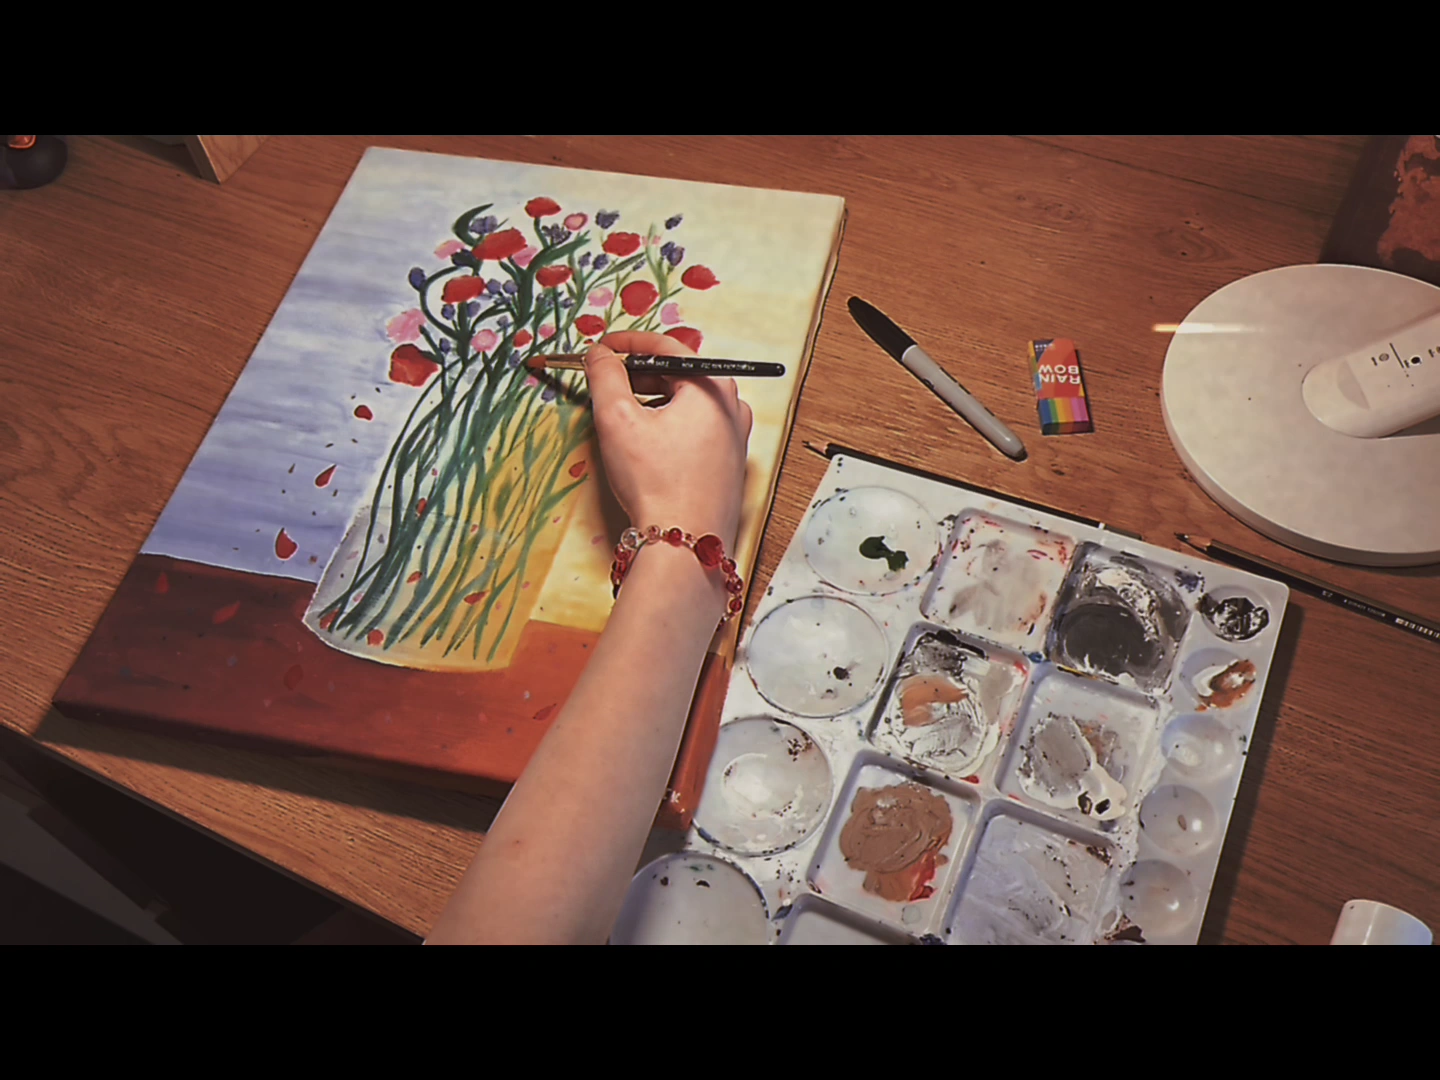
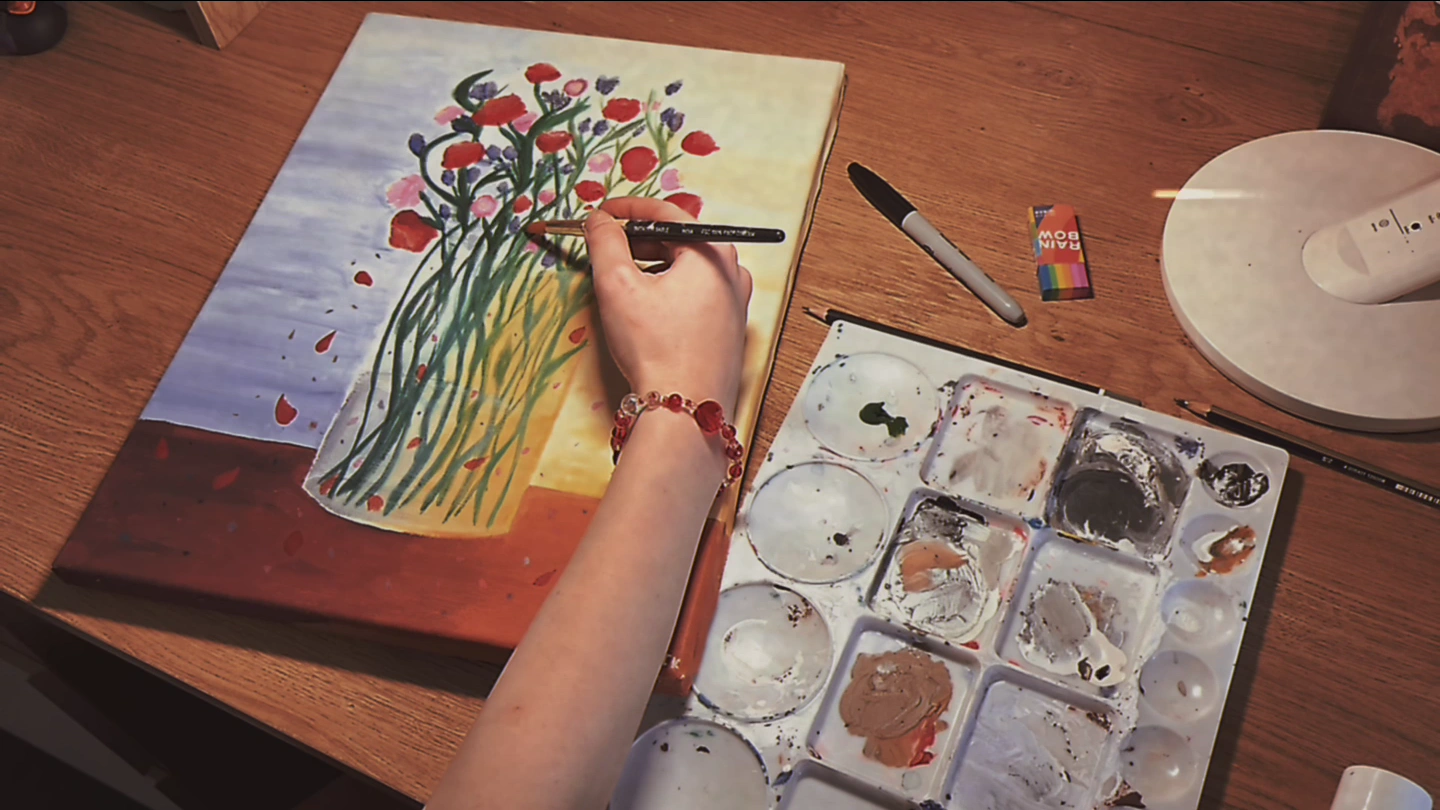
Videos fill their frame: the black bars baked into the exports stay outside the frame (portrait clips get a taller frame), and each backup still is a frame from its own clip; Follow us line ends with a full stop, T-Shirt in Title Case

diff --git a/js/data.js b/js/data.js
@@ -43,7 +43,7 @@ const CREDITS_ROLL = [
   ['Web Design & Development', 'Qinxi Yao']
 ];
 // The Follow Us folder on the same screen opens this note: [name, Instagram handle without the @]
-const SOCIALS_LEAD = 'Follow us for behind the scenes ✦';
+const SOCIALS_LEAD = 'Follow us for behind the scenes. ✦';
 const SOCIALS = [
   ['Chloee Park', 'larchivedeclo'],
   ['Isabella Kiosses', 'isafish_films'],
@@ -102,7 +102,7 @@ const ITEM_DEFS = {
   homework2:    { name: 'Mock Exam', fits: ['desk'], hint: 'Homework goes on the desk.', keep: false },
   hoodie:       { name: 'Hoodie', fits: ['basket'], hint: 'Clothes go in the laundry basket.', keep: false },
   jeans:        { name: 'Jeans', fits: ['basket'], hint: 'Clothes go in the laundry basket.', keep: false },
-  tee:          { name: 'T-shirt', fits: ['basket'], hint: 'Clothes go in the laundry basket.', keep: false },
+  tee:          { name: 'T-Shirt', fits: ['basket'], hint: 'Clothes go in the laundry basket.', keep: false },
   heels:        { name: "Mum's Heels", fits: ['floor'], hint: 'Shoes go on the floor.' },
   sneakers:     { name: 'Old Sneakers', fits: ['underbed'], hint: 'Kick them under the bed. Out of sight, out of mind.', keep: false },
   posterband:   { name: 'Posters', fits: ['wall'], hint: 'Posters go on the wall above the bed.' },
@@ -163,7 +163,9 @@ const YA_SURFACES = [
   SILL
 ];
 
-/* ---------- the six chapters ---------- */
+/* ---------- the six chapters ----------
+   Videos: ratio = the shape of the picture inside the clip. Our exports have black bars baked in
+   (16:9 or 9:16 picture in a 4:3 file), so the player shows just the picture, at full quality. */
 const CHAPTERS = [
   {
     id: 'nursery', kicker: 'Chapter 1', title: 'The Nursery', year: 2000, accent: '#ffc700',
@@ -182,8 +184,8 @@ const CHAPTERS = [
     tray: ['teddy', 'blanket', 'mobile', 'rabbit', 'rabbitbooks', 'snowglobe', 'nightlight', 'rattle', 'bottle'],
     mess: [],
     memories: [
-      { id: 'n-teddy', items: ['teddy'], type: 'video', src: 'assets/video/01-nursery-teddy.mp4', still: 'assets/photos/01-nursery-teddy.webp', focus: [0.5, 0.45], caption: 'Teddy resting in bed.' },
-      { id: 'n-globe', items: ['snowglobe'], type: 'video', src: 'assets/video/01-nursery-snowglobe.mp4', still: 'assets/photos/01-nursery-snowglobe.jpg', focus: [0.2, 0.76], caption: '♪ ♫ ♪\u00a0\u00a0Watching the glitter fall.\u00a0\u00a0♪ ♫ ♪' },
+      { id: 'n-teddy', items: ['teddy'], type: 'video', src: 'assets/video/01-nursery-teddy.mp4', ratio: 608 / 1080, still: 'assets/photos/01-nursery-teddy.webp', focus: [0.5, 0.4], caption: 'Teddy resting in bed.' },
+      { id: 'n-globe', items: ['snowglobe'], type: 'video', src: 'assets/video/01-nursery-snowglobe.mp4', ratio: 16 / 9, still: 'assets/photos/01-nursery-snowglobe.webp', focus: [0.62, 0.5], caption: '♪ ♫ ♪\u00a0\u00a0Watching the glitter fall.\u00a0\u00a0♪ ♫ ♪' },
       { id: 'n-rabbit', items: ['rabbit', 'rabbitbooks'], type: 'photo', src: 'assets/photos/01-nursery-peter-rabbit.webp', caption: 'Peter Rabbit, chilling on a shelf.' }
     ],
     onStart: [{ do: 'wait', ms: 1600 }, { do: 'toast', from: 'Mum', text: 'Sweet dreams, little one. ♥' }],
@@ -218,7 +220,7 @@ const CHAPTERS = [
       { id: 'truck', x: 880, y: 528, rot: -0.15 }
     ],
     memories: [
-      { id: 'c-tea', items: ['teaset'], type: 'video', src: 'assets/video/02-childhood-tea-party.mp4', still: 'assets/photos/02-childhood-tea-party.webp', focus: [0.5, 0.5], caption: 'Tea party with the dolls and the teddy.' },
+      { id: 'c-tea', items: ['teaset'], type: 'video', src: 'assets/video/02-childhood-tea-party.mp4', ratio: 16 / 9, still: 'assets/photos/02-childhood-tea-party.webp', focus: [0.5, 0.5], caption: 'Tea party with the dolls and the teddy.' },
       { id: 'c-doll', items: ['doll'], type: 'photo', src: 'assets/photos/02-childhood-dolls.webp', caption: 'Yay! Everyone’s here!' },
       { id: 'c-draw', items: ['drawing'], type: 'text', title: 'my_family.txt', caption: 'MY FAMILY, by me (age 5)\n\nMum. Dad. Me. My little brother.\nAnd teddy.' }
     ],
@@ -249,7 +251,7 @@ const CHAPTERS = [
       { id: 'sketch', x: 640, y: 518, rot: -0.35 }
     ],
     memories: [
-      { id: 't-bag', items: ['backpack'], type: 'video', src: 'assets/video/03-tween-backpack.mp4', still: 'assets/photos/03-tween-backpack.webp', focus: [0.55, 0.5], caption: 'Too many textbooks to carry.' },
+      { id: 't-bag', items: ['backpack'], type: 'video', src: 'assets/video/03-tween-backpack.mp4', ratio: 16 / 9, still: 'assets/photos/03-tween-backpack.webp', focus: [0.55, 0.5], caption: 'Too many textbooks to carry.' },
       { id: 't-skates', items: ['skates'], type: 'photo', src: 'assets/photos/03-tween-rollerskates.webp', caption: 'I got these for my birthday! Now to learn how to brake.' },
       { id: 't-art', items: ['artsupplies'], type: 'photo', src: 'assets/photos/03-tween-art-supplies.webp', caption: 'Drawing is hard, but fun!' },
       { id: 't-sketch', items: ['sketch'], type: 'photo', src: 'assets/photos/03-tween-drawing.webp', caption: 'Don’t look at my sketches!' },
@@ -292,7 +294,7 @@ const CHAPTERS = [
     memories: [
       { id: 'te-homework', items: ['homework1'], type: 'photo', src: 'assets/photos/04-teen-homework.webp', caption: 'This is my life now.' },
       { id: 'te-mock', items: ['homework2'], type: 'photo', src: 'assets/photos/04-teen-mock-exam.webp', caption: 'Please let me PASS...' },
-      { id: 'te-clothes', items: [], type: 'video', src: 'assets/video/04-teen-clothes-pile.mp4', still: 'assets/photos/04-teen-clothes.webp', focus: [0.5, 0.5], caption: 'One more on the pile… “CLEAN. YOUR. ROOM.”' },
+      { id: 'te-clothes', items: [], type: 'video', src: 'assets/video/04-teen-clothes-pile.mp4', ratio: 608 / 1080, still: 'assets/photos/04-teen-clothes.webp', focus: [0.5, 0.5], caption: 'One more on the pile… “CLEAN. YOUR. ROOM.”' },
       { id: 'te-heels', items: ['heels'], type: 'photo', src: 'assets/photos/04-teen-high-heels.webp', caption: 'Stole these from mum.' },
       { id: 'te-trophy', items: ['trophy', 'medal', 'award'], type: 'photo', src: 'assets/photos/04-teen-trophies.webp', caption: 'Solo dance: 2nd, 2nd… then 1st! (Still learning to brake.)' }
     ],
@@ -327,7 +329,7 @@ const CHAPTERS = [
       { id: 'y-cosmetics', items: ['cosmetics'], type: 'photo', src: 'assets/photos/05-youngadult-cosmetics.webp', caption: 'Too many blushes? No such thing.' },
       { id: 'y-digicam', items: ['digicam'], type: 'photo', src: 'assets/photos/05-youngadult-digicam.webp', caption: 'If it’s not on the digicam, it didn’t happen.' },
       { id: 'y-polaroids', items: ['polaroids'], type: 'text', title: 'polaroids.txt', caption: 'Friends I hadn’t met yet when I was twelve.' },
-      { id: 'y-painting', items: ['painting'], type: 'video', src: 'assets/video/05-youngadult-painting.mp4', still: 'assets/photos/05-youngadult-painting.webp', focus: [0.4, 0.4], caption: 'Painting just for me again.' },
+      { id: 'y-painting', items: ['painting'], type: 'video', src: 'assets/video/05-youngadult-painting.mp4', ratio: 16 / 9, still: 'assets/photos/05-youngadult-painting.webp', focus: [0.4, 0.4], caption: 'Painting just for me again.' },
       /* EASTER EGG: put the laptop on the desk and it opens up full screen and plays our exhibition ad.
          secret: true = no ! badge and it doesn't count towards "Memories x/y", so it stays a surprise.
          Video: MP4 / H.264, same 1.414 : 1 shape as the poster (e.g. 1920 x 1358). Until it exists, the poster plays with a slow zoom.
@@ -360,7 +362,7 @@ const CHAPTERS = [
         id: 'm-letter', items: ['uniletter'], type: 'letter', title: 'acceptance_letter.txt',
         caption: 'Dear {name},\n\nCongratulations! We are delighted to offer you a place in our Bachelor of Creative Industries, commencing next semester.\n\nWelcome to your next chapter.\n\nOffice of Admissions'
       },
-      { id: 'm-boxes', items: [], type: 'video', src: 'assets/video/06-moving-out-boxes.mp4', still: 'assets/photos/06-moving-out-boxes.jpg', focus: [0.5, 0.45], caption: 'Teddy, the family photo, and some clothes. That’s the important stuff.' }
+      { id: 'm-boxes', items: [], type: 'video', src: 'assets/video/06-moving-out-boxes.mp4', ratio: 16 / 9, still: 'assets/photos/06-moving-out-boxes.webp', focus: [0.5, 0.5], caption: 'Teddy, the family photo, and some clothes. That’s the important stuff.' }
     ],
     onStart: [{ do: 'wait', ms: 1500 }, { do: 'toast', from: 'Mum', text: 'There’s mail for you on your desk! The car’s packed, take your time. x' }],
     onPlace: {},

diff --git a/js/ui.js b/js/ui.js
@@ -342,9 +342,9 @@ const UI = (() => {
       if (DEV) modal.querySelector('.missing').classList.remove('hidden');
       const c = modal.querySelector('.mem-controls'); if (c) c.style.visibility = 'hidden';
     };
-    // photos and stills keep their own shape (portrait photos get a tall frame, nothing is cropped)
+    // photos and stills keep their own shape (portrait photos and videos get a taller frame, nothing is cropped)
     const fitFrame = (ratio, inset) => {
-      const a = Math.min(1.9, Math.max(0.6, ratio)), MW = 600, MH = 440;
+      const a = Math.min(1.9, Math.max(0.5, ratio)), MW = 600, MH = a < 1 ? 520 : 440;
       const w = a >= MW / MH ? MW : Math.round(MH * a), h = a >= MW / MH ? Math.round(MW / a) : MH;
       frameEl.style.width = (w + inset) + 'px'; frameEl.style.height = (h + inset) + 'px';
     };
@@ -401,7 +401,8 @@ const UI = (() => {
       v.addEventListener('loadeddata', () => {
         if (!live()) return;
         host.innerHTML = '';
-        if (v.videoWidth) fitFrame(v.videoWidth / v.videoHeight, 0);   // portrait phone videos get a tall frame
+        if (v.videoWidth) fitFrame(mem.ratio || v.videoWidth / v.videoHeight, 0);   // portrait phone videos get a tall frame
+        if (mem.ratio) v.style.objectFit = 'cover';   // the black bars baked into the clip fall outside the frame
         host.appendChild(v);
         const p = v.play(); if (p && p.catch) p.catch(() => setPlayIcon(false));
       });

diff --git a/README.md b/README.md
@@ -75,8 +75,8 @@ Until a file exists, its frame simply stays empty (the caption still shows). A v
 
 | File | Plays when… | Caption on screen |
 | --- | --- | --- |
-| ✅ `assets/video/01-nursery-teddy.mp4` (still: `assets/photos/01-nursery-teddy.webp`) | Teddy is put in the cot | Teddy resting in bed. |
-| ✅ `assets/video/01-nursery-snowglobe.mp4` (still: `assets/photos/01-nursery-snowglobe.jpg`) | Snow globe is put away | ♪ ♫ ♪  Watching the glitter fall.  ♪ ♫ ♪ |
+| ✅ `assets/video/01-nursery-teddy.mp4` (still: `assets/photos/01-nursery-teddy.webp`, a frame from the clip) | Teddy is put in the cot | Teddy resting in bed. |
+| ✅ `assets/video/01-nursery-snowglobe.mp4` (still: `assets/photos/01-nursery-snowglobe.webp`, a frame from the clip) | Snow globe is put away | ♪ ♫ ♪  Watching the glitter fall.  ♪ ♫ ♪ |
 | ✅ `assets/photos/01-nursery-peter-rabbit.webp` | Peter Rabbit or the board books are put down (same photo) | Peter Rabbit, chilling on a shelf. |
 | ✅ `assets/video/02-childhood-tea-party.mp4` (still: `assets/photos/02-childhood-tea-party.webp`) | Tea set goes on the tea table | Tea party with the dolls and the teddy. |
 | ✅ `assets/photos/02-childhood-dolls.webp` | Dolls are put down | Yay! Everyone’s here! |
@@ -98,12 +98,12 @@ Until a file exists, its frame simply stays empty (the caption still shows). A v
 | ✅ `assets/photos/05-youngadult-digicam.webp` | Digicam is put down | If it’s not on the digicam, it didn’t happen. |
 | ✅ `assets/video/05-youngadult-painting.mp4` (still: `assets/photos/05-youngadult-painting.webp`, a frame from the clip) | Flower painting goes on the wall (or the desk) | Painting just for me again. |
 | 🥚 ✅ `assets/video/05-youngadult-laptop-ad.mp4` (still: `assets/photos/05-youngadult-laptop-ad.webp`, the poster) | **Easter egg:** the laptop goes on the desk (or is clicked). The laptop opens full screen and plays our exhibition ad, with an "Ad" tag and "Skip ad" after 5 s. No ! badge, not counted in Memories. Shape **1.414 : 1** like the poster (e.g. 1920 × 1358); keep the bottom-right corner and bottom edge free of key text. | (none: it's an ad) |
-| ✅ `assets/video/06-moving-out-boxes.mp4` (still: `assets/photos/06-moving-out-boxes.jpg`) | Teddy is packed (the finale) | Teddy, the family photo, and some clothes. |
+| ✅ `assets/video/06-moving-out-boxes.mp4` (still: `assets/photos/06-moving-out-boxes.webp`, a frame from the clip) | Teddy is packed (the finale) | Teddy, the family photo, and some clothes. |
 
 **Formats**
 
 - **Photos:** `.jpg` (or `.png` / `.webp` for cut-outs with a transparent background; change the extension in `js/data.js`). About 1600 px on the long side is plenty. Portrait or landscape both work: the photo frame takes the shape of the photo, nothing is cropped. Strip location data (phone photos carry GPS) by exporting a copy rather than using the original.
-- **Videos:** **MP4, H.264**. Phone footage is often HEVC `.mov`, which many browsers can't play. In Premiere: *Export → H.264 → Match Source*. Keep clips short (5–20 s), landscape 4:3 or 16:9 (the player takes the shape of the clip). The player closes itself shortly after a video ends.
+- **Videos:** **MP4, H.264**. Phone footage is often HEVC `.mov`, which many browsers can't play. In Premiere: *Export → H.264 → Match Source*. Keep clips short (5–20 s), landscape or portrait (the player takes the shape of the clip). If the export has black bars baked in, give the memory `ratio` (the shape of the picture, e.g. `16 / 9`) in `js/data.js` and only the picture is shown. The player closes itself shortly after a video ends.
 - **Stills for videos:** a video memory can have a `still` photo and a `focus` point (e.g. `focus: [0.2, 0.76]` = 20% across, 76% down). Until the video file exists, the still plays with a slow camcorder zoom towards that point.
 - Captions, filenames, Mum's messages and chapter text all live in **`js/data.js`**. Change them freely; it's plain text.
 
